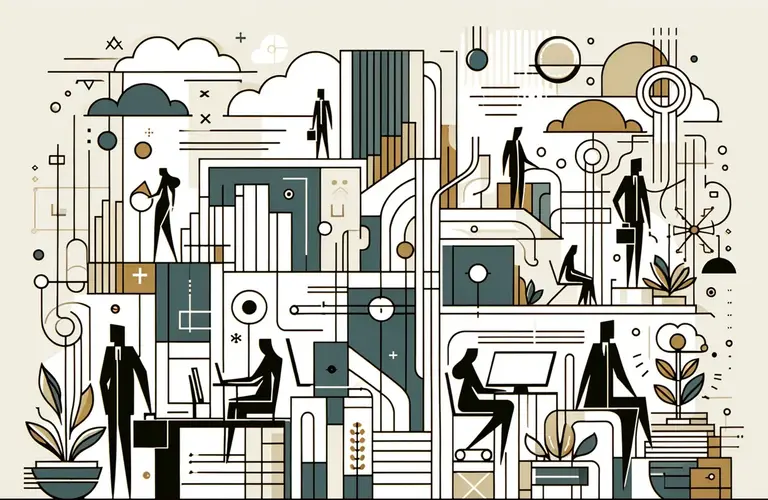
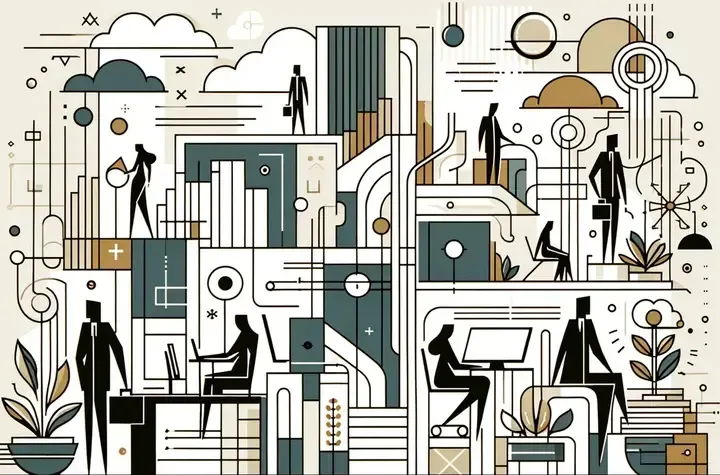
squash login UI thrash: card layout, image bleed, link underlines
Login card: tighter shell, top-align, rounded corners (separate
collapse), section gap, image bleeds to edge; crop most of L/T/R
beige matte and 1px black bottom row; display at 82% scale.
Links: underline by default; suppress only on menu anchors;
Reset Password uses standard A:link (no local colour overrides).

diff --git a/service/www/3/index.html b/service/www/3/index.html
@@ -21,8 +21,9 @@
 
 	<style>
 		:root {
-			--login-shell-radius: 0.5rem;
+			--login-shell-radius: 0.75rem;
 			--login-image-margin: 5px;
+			--login-section-gap: 0.75rem;
 			--login-bg: #f1eee0;
 		}
 
@@ -36,15 +37,16 @@
 			align-items: center;
 			min-height: 100vh;
 			box-sizing: border-box;
-			padding: 1rem;
+			padding: 0.25rem;
 		}
 
 		/* Outer: one row, two columns — fields | image */
 		#logindiv.login-shell-table {
-			border-collapse: collapse;
+			/* separate so border-radius actually clips (collapse ignores radius) */
+			border-collapse: separate;
 			border-spacing: 0;
 			margin: auto;
-			max-width: calc(100vw - 2rem);
+			max-width: calc(100vw - 0.5rem);
 			border: 1px solid #ccc;
 			border-radius: var(--login-shell-radius);
 			box-shadow: 0 4px 8px rgba(0,0,0,0.1);
@@ -54,23 +56,28 @@
 
 		#logindiv.login-shell-table > tbody > tr > td {
 			border: none;
-			vertical-align: middle;
+			/* top — not middle: image is taller than fields; middle left empty beige bands */
+			vertical-align: top;
 			background: var(--login-bg);
 		}
 
 		.login-left-cell {
-			padding: 1.5rem;
+			padding: 0.75rem;
+			/* gap between fields column and image (image itself has no inset) */
+			padding-right: var(--login-section-gap);
 		}
 
 		.login-image-cell {
-			padding: var(--login-image-margin) var(--login-image-margin) var(--login-image-margin) 0;
-			vertical-align: middle;
+			/* image bleeds to card top/right/bottom — no inset frame */
+			padding: 0;
+			vertical-align: top;
 		}
 		.login-image-cell img {
 			display: block;
-			/* 80% of the image itself (natural 500px) — not 80% of the td (td has no height) */
-			height: calc(500px * 0.8);
+			/* 82% of the image itself (natural 500px) — not % of the td (td has no height) */
+			height: calc(500px * 0.82);
 			width: auto;
+			border-radius: 0 var(--login-shell-radius) var(--login-shell-radius) 0;
 		}
 
 		/* Inner: gutter (F7) | controls */
@@ -158,11 +165,7 @@
 			border-radius: 2px;
 		}
 
-		.login-reset-link {
-			text-decoration: underline;
-			color: black;
-			cursor: pointer;
-		}
+		/* Reset Password: normal A:link / A:visited from global.css — no local colour override */
 
 		#logindiv input.loginfield:-webkit-autofill {
 			-webkit-box-shadow: 0 0 0 1000px #fff inset;
@@ -226,14 +229,10 @@
 			background-color: #b8944f;
 			color: #1f1a12;
 		}
-		:root[data-theme="dark_mode"] .login-reset-link {
-			color: #a8b4d0;
-		}
 		:root[data-theme="dark_mode"] .login-footer {
 			color: #8a8e9a;
 		}
-		:root[data-theme="dark_mode"] #logindiv .login-options-row label,
-		:root[data-theme="dark_mode"] #logindiv .login-options-row a#passwordresetlink {
+		:root[data-theme="dark_mode"] #logindiv .login-options-row label {
 			color: #b0b4c0;
 		}
 

diff --git a/service/www/3/exodus/global.css b/service/www/3/exodus/global.css
@@ -846,19 +846,21 @@ TH
     /*deprecated in html5 - removed to fix alignment issue in schedules*/
     /*vertical-align: baseline;*/
 }
+/* Normal links: colour + underline (login Reset Password, docs, …).
+ * Menu anchors keep underline off — see .menu a / a.menuitem below. */
 A:link
 {
     color: #003399;
-    text-decoration: none;
+    text-decoration: underline;
 }
 A:visited
 {
     color: #6699cc;
-    text-decoration: none;
+    text-decoration: underline;
 }
 A:hover
 {
-    /*text-decoration: underline;*/
+    text-decoration: underline;
 }
 
 
@@ -1131,19 +1133,29 @@ TABLE.exoform SPAN.clsReadOnly:empty::before {
     cursor: pointer;
 }
 
+/* Menu links: no underline (access-key <u> already marks hotkeys) */
+.menu a,
+a.menuitem
+{
+    text-decoration: none;
+}
+
 .menuitem:link
 {
     color: black;
+    text-decoration: none;
 }
 .menuitem:visited
 {
     color: black;
+    text-decoration: none;
 }
 
 
 .menuitem:hover
 {
     cursor: pointer;
+    text-decoration: none;
 }
 
 .menu hr,
